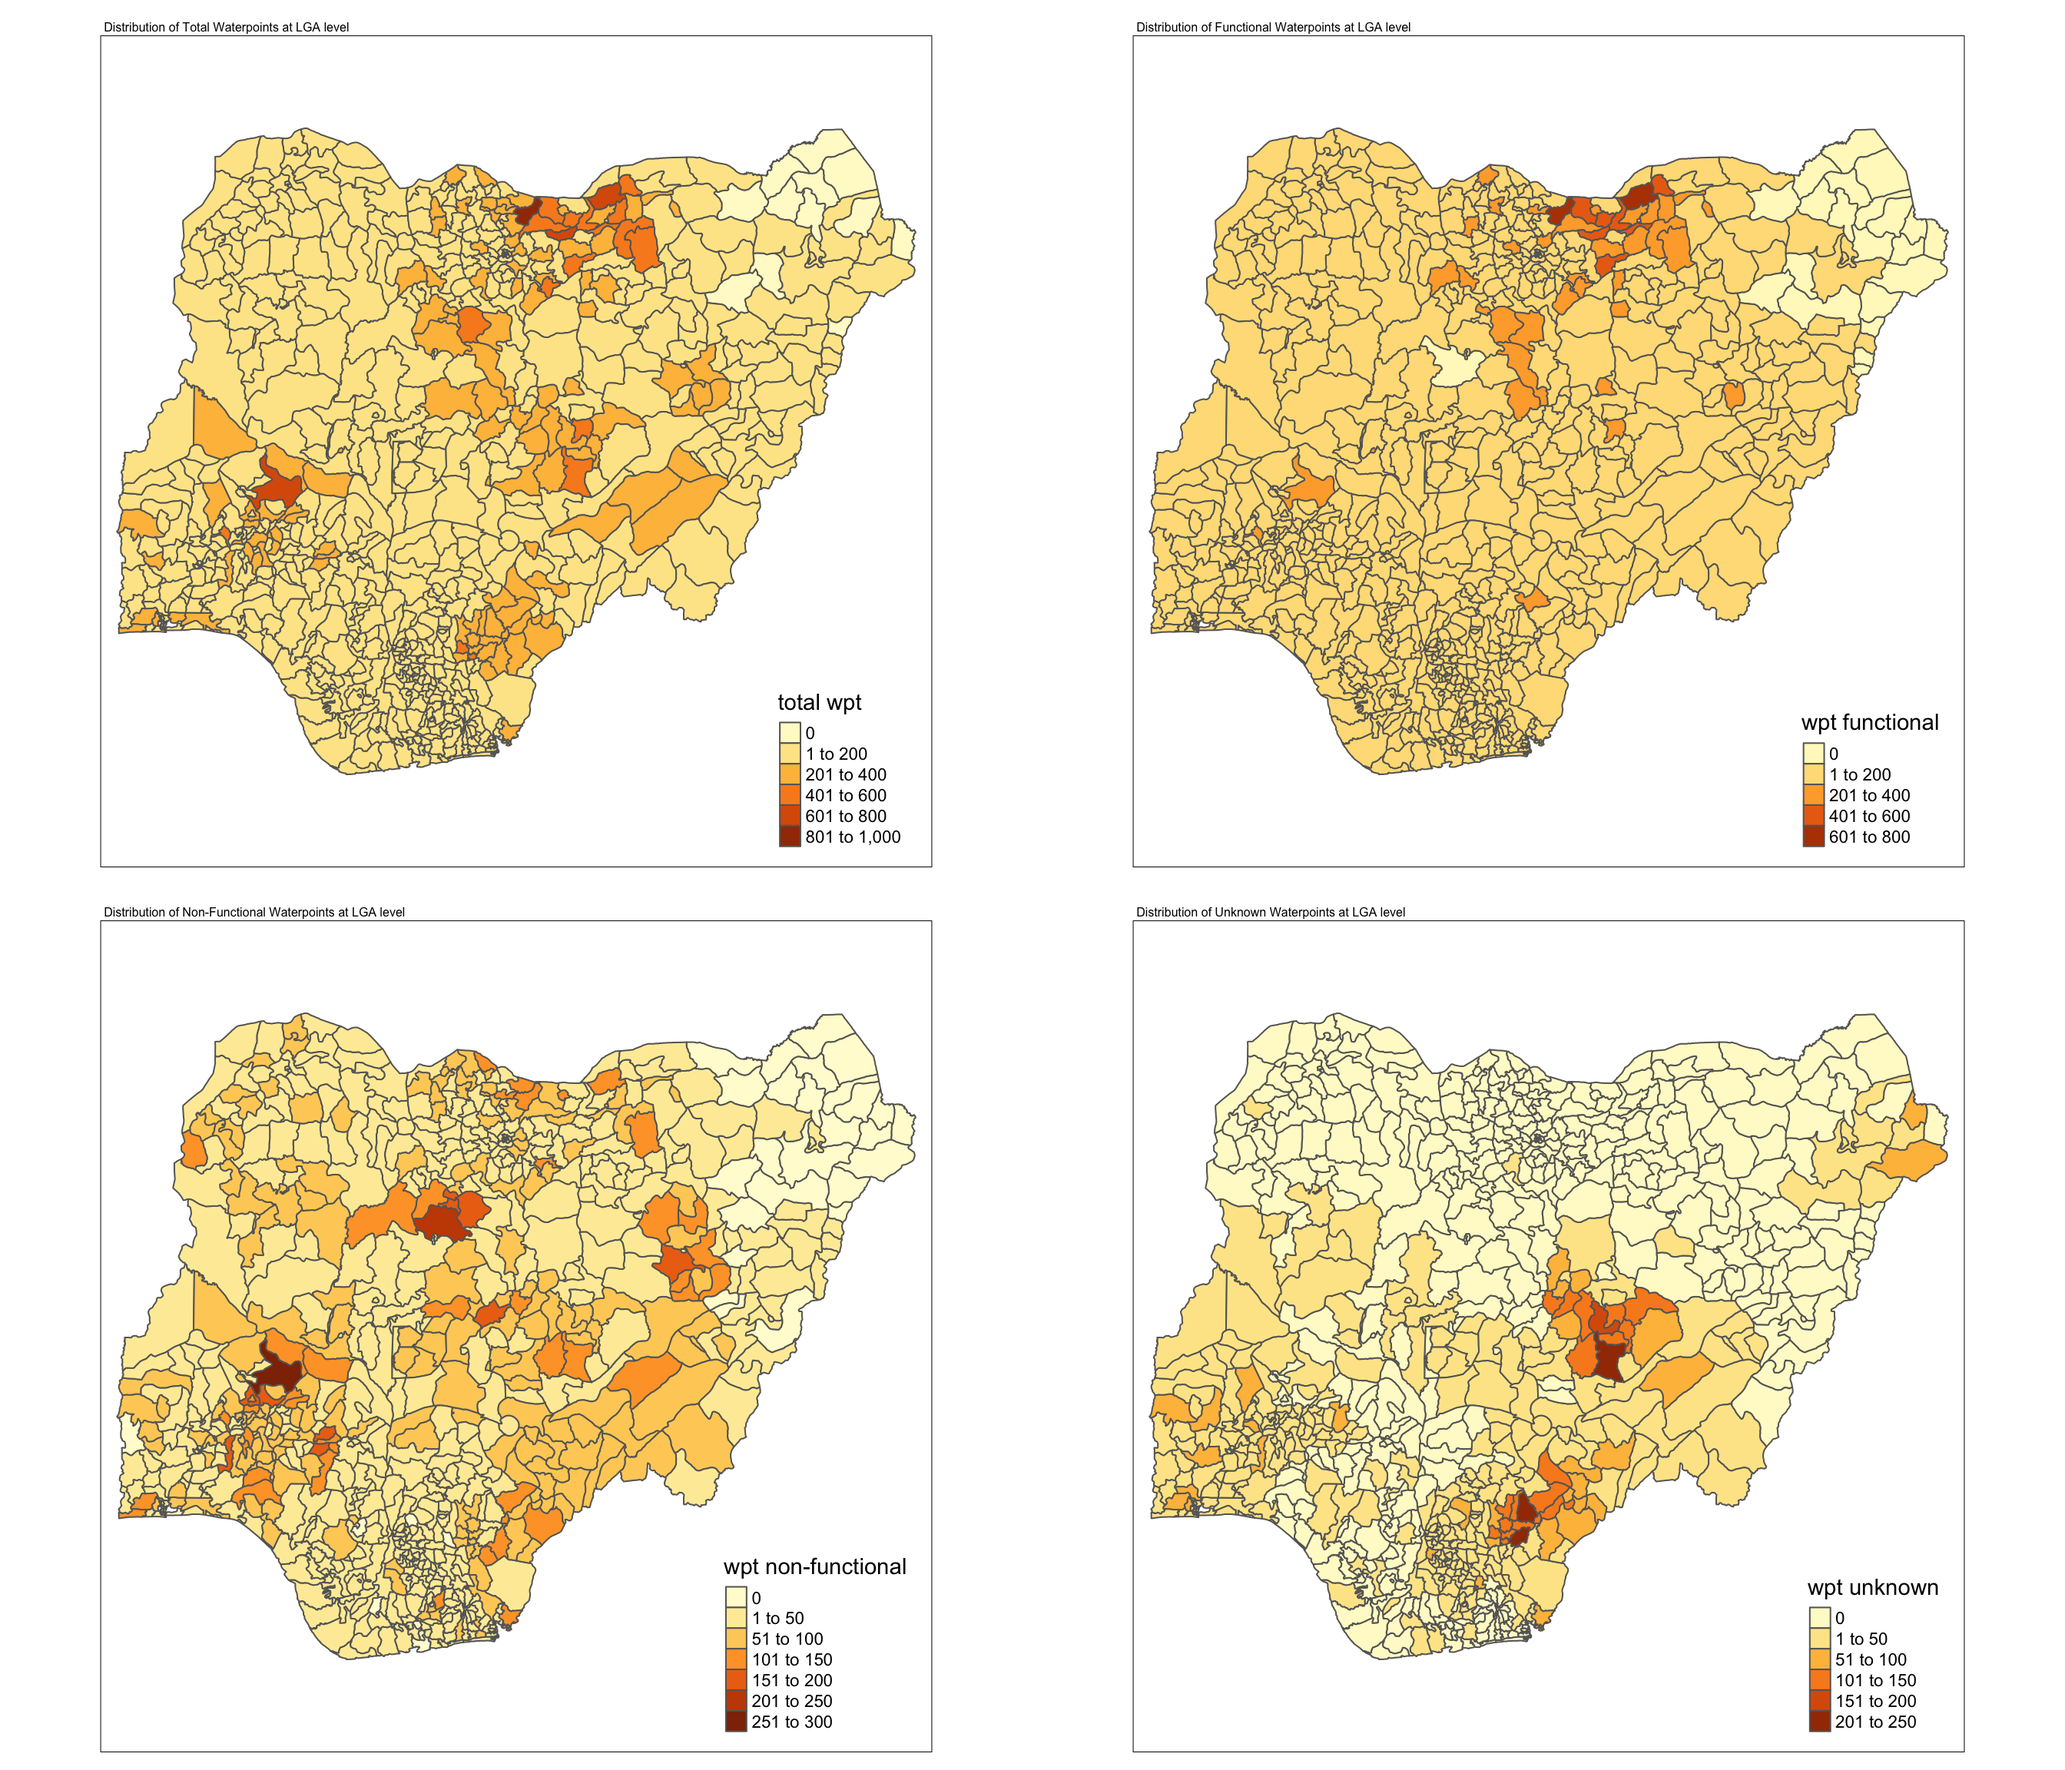
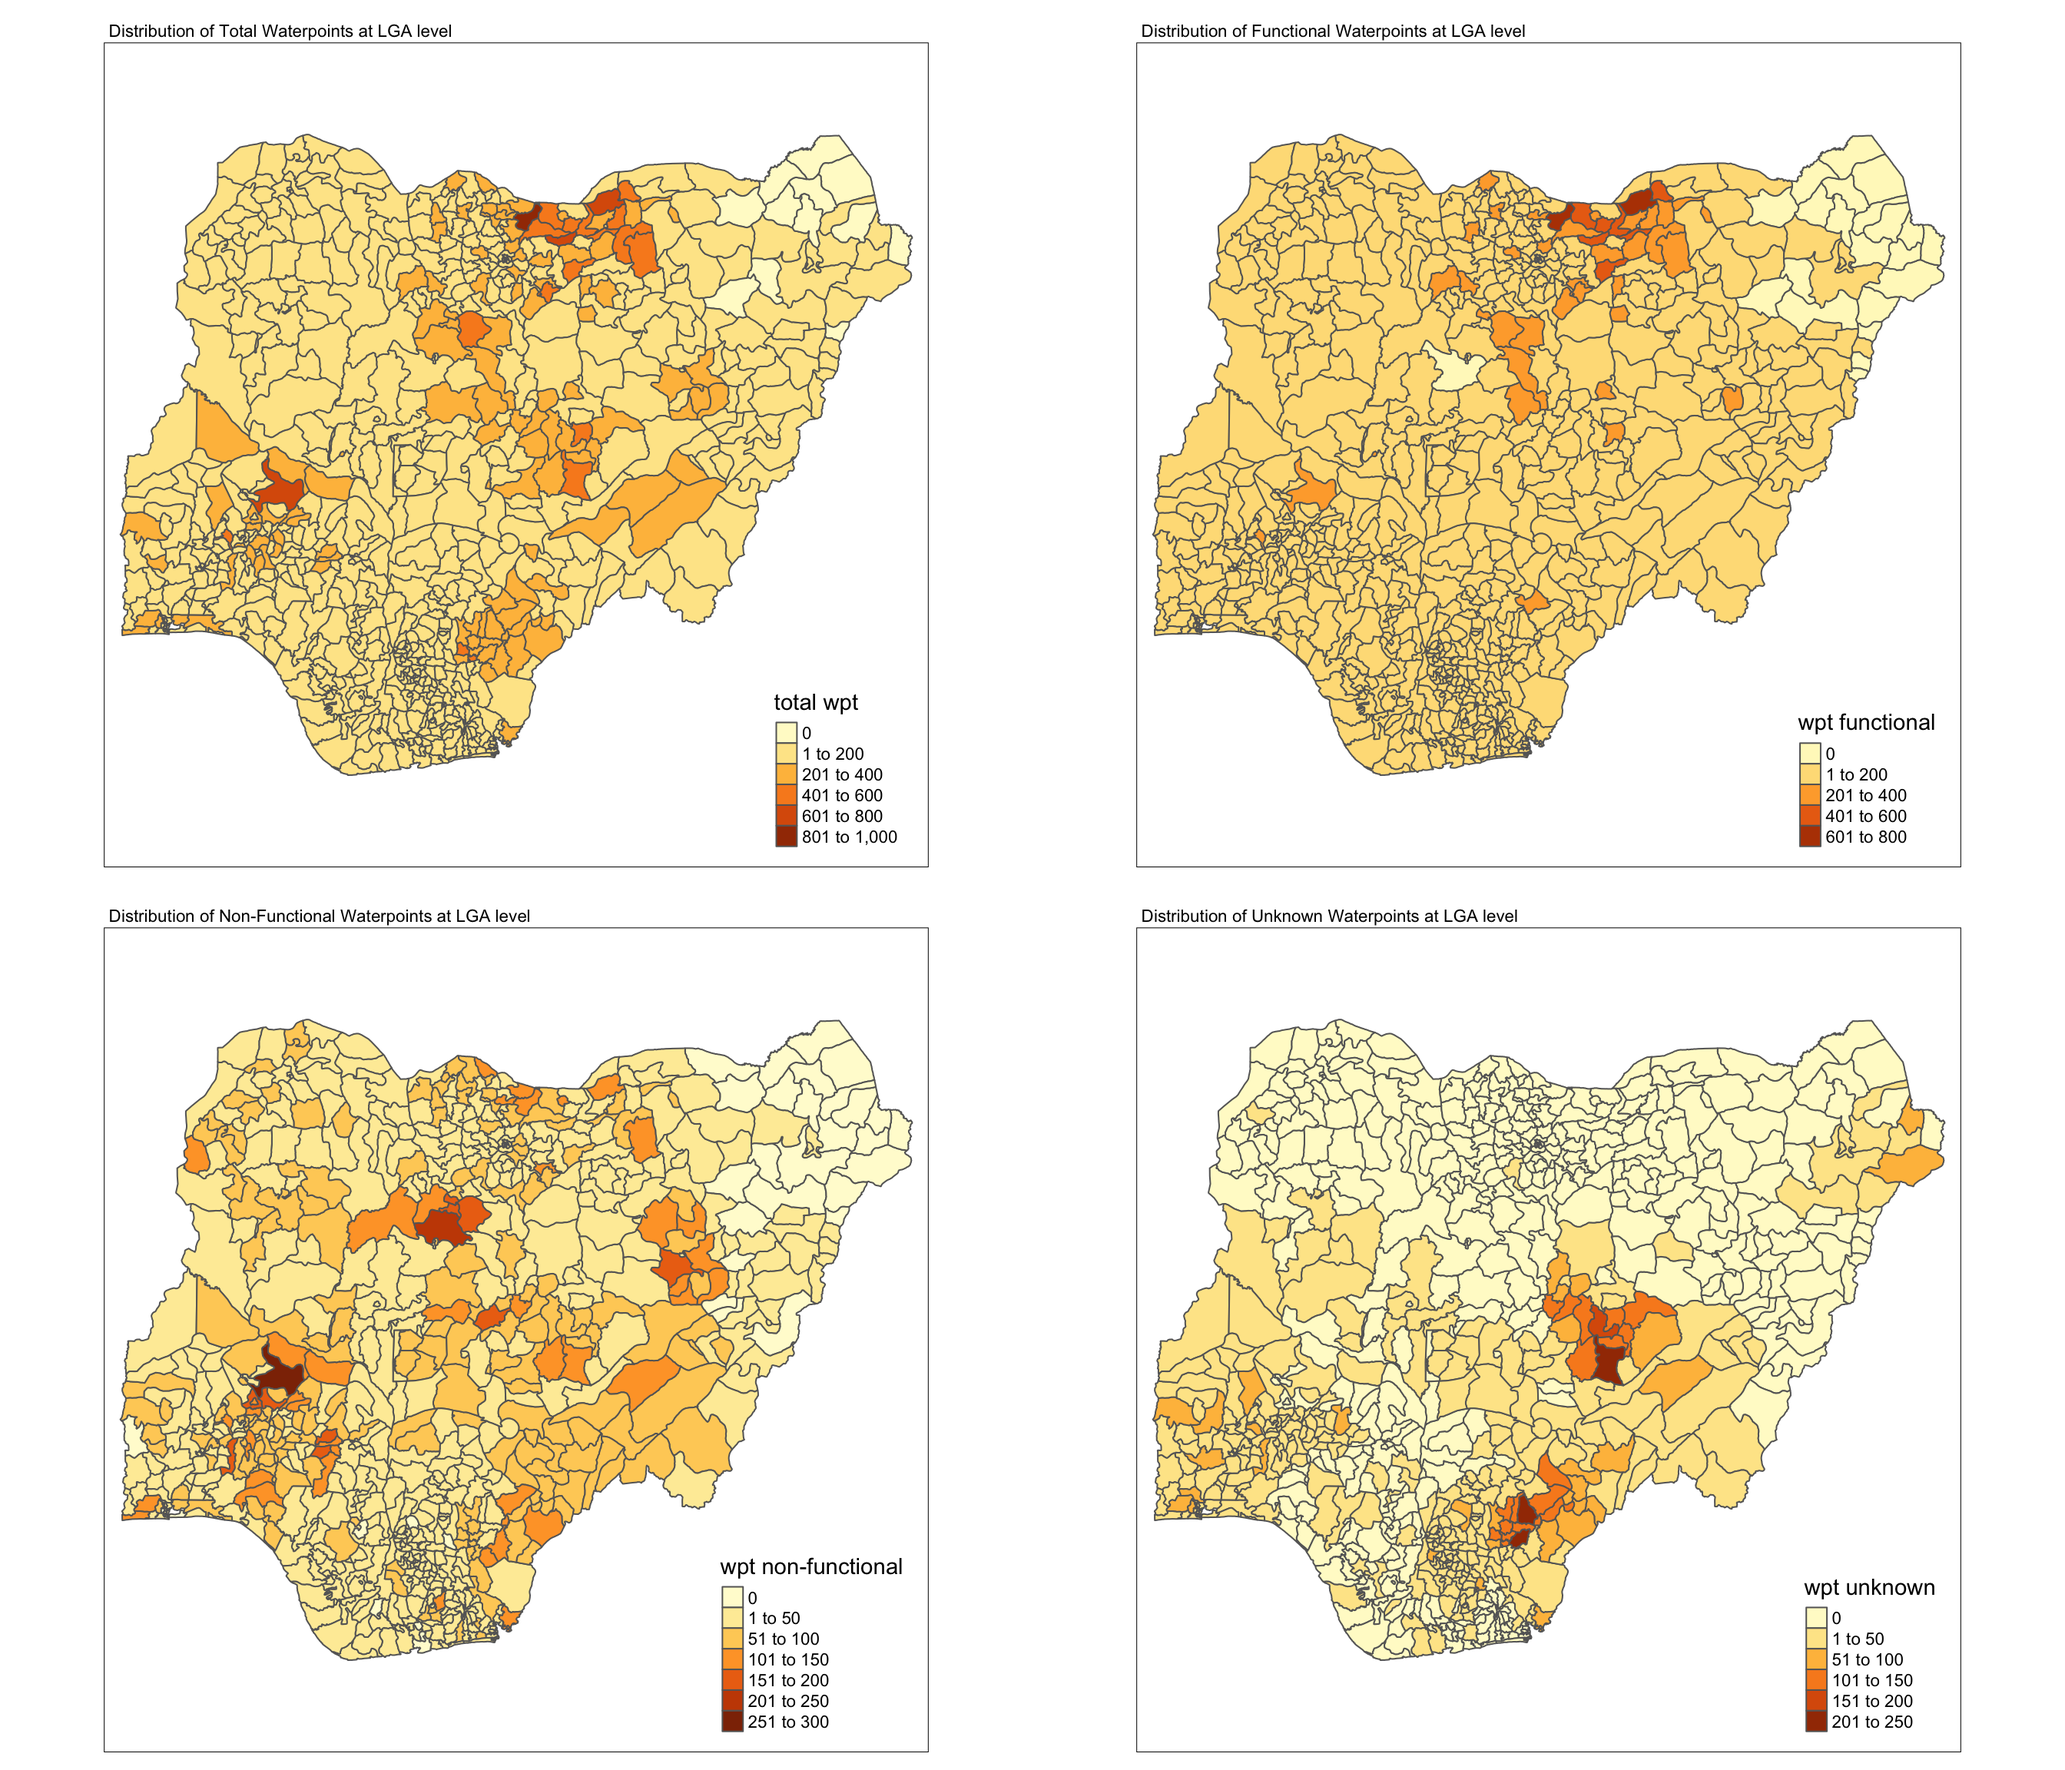
take_home_9th

diff --git a/_site/Take_home_Ex1/Take_home_Ex1.html b/_site/Take_home_Ex1/Take_home_Ex1.html
@@ -284,7 +284,6 @@ code span.wa { color: #60a0b0; font-weight: bold; font-style: italic; } /* Warni
   <li><a href="#computing-gi-statistics-using-fixed-distance" id="toc-computing-gi-statistics-using-fixed-distance" class="nav-link" data-scroll-target="#computing-gi-statistics-using-fixed-distance">Computing Gi statistics using fixed distance</a></li>
   <li><a href="#mapping-gi-values-with-fixed-distance-weights" id="toc-mapping-gi-values-with-fixed-distance-weights" class="nav-link" data-scroll-target="#mapping-gi-values-with-fixed-distance-weights">Mapping Gi values with fixed distance weights</a></li>
   </ul></li>
-  <li><a href="#section" id="toc-section" class="nav-link" data-scroll-target="#section"></a></li>
   </ul>
 </nav>
     </div>
@@ -552,22 +551,22 @@ PROJCRS["Minna / Nigeria West Belt",
 <span id="cb19-2"><a href="#cb19-2" aria-hidden="true" tabindex="-1"></a>  <span class="fu">tm_layout</span>(<span class="at">legend.height =</span> <span class="fl">0.25</span>, </span>
 <span id="cb19-3"><a href="#cb19-3" aria-hidden="true" tabindex="-1"></a>            <span class="at">legend.width =</span> <span class="fl">0.35</span>,</span>
 <span id="cb19-4"><a href="#cb19-4" aria-hidden="true" tabindex="-1"></a>            <span class="at">main.title =</span> <span class="st">"Distribution of Total Waterpoints at LGA level"</span>,</span>
-<span id="cb19-5"><a href="#cb19-5" aria-hidden="true" tabindex="-1"></a>            <span class="at">main.title.size =</span> <span class="fl">0.5</span>)</span>
+<span id="cb19-5"><a href="#cb19-5" aria-hidden="true" tabindex="-1"></a>            <span class="at">main.title.size =</span> <span class="fl">0.7</span>)</span>
 <span id="cb19-6"><a href="#cb19-6" aria-hidden="true" tabindex="-1"></a>wp_functional <span class="ot">&lt;-</span> <span class="fu">qtm</span>(nga_wp_1, <span class="st">"wpt functional"</span>) <span class="sc">+</span> </span>
 <span id="cb19-7"><a href="#cb19-7" aria-hidden="true" tabindex="-1"></a>  <span class="fu">tm_layout</span>(<span class="at">legend.height =</span> <span class="fl">0.25</span>, </span>
 <span id="cb19-8"><a href="#cb19-8" aria-hidden="true" tabindex="-1"></a>            <span class="at">legend.width =</span> <span class="fl">0.35</span>,</span>
 <span id="cb19-9"><a href="#cb19-9" aria-hidden="true" tabindex="-1"></a>            <span class="at">main.title =</span> <span class="st">"Distribution of Functional Waterpoints at LGA level"</span>,</span>
-<span id="cb19-10"><a href="#cb19-10" aria-hidden="true" tabindex="-1"></a>            <span class="at">main.title.size =</span> <span class="fl">0.5</span>)</span>
+<span id="cb19-10"><a href="#cb19-10" aria-hidden="true" tabindex="-1"></a>            <span class="at">main.title.size =</span> <span class="fl">0.7</span>)</span>
 <span id="cb19-11"><a href="#cb19-11" aria-hidden="true" tabindex="-1"></a>wp_nonfunctional <span class="ot">&lt;-</span> <span class="fu">qtm</span>(nga_wp_1, <span class="st">"wpt non-functional"</span>) <span class="sc">+</span> </span>
 <span id="cb19-12"><a href="#cb19-12" aria-hidden="true" tabindex="-1"></a>  <span class="fu">tm_layout</span>(<span class="at">legend.height =</span> <span class="fl">0.25</span>, </span>
 <span id="cb19-13"><a href="#cb19-13" aria-hidden="true" tabindex="-1"></a>            <span class="at">legend.width =</span> <span class="fl">0.35</span>,</span>
 <span id="cb19-14"><a href="#cb19-14" aria-hidden="true" tabindex="-1"></a>            <span class="at">main.title =</span> <span class="st">"Distribution of Non-Functional Waterpoints at LGA level"</span>,</span>
-<span id="cb19-15"><a href="#cb19-15" aria-hidden="true" tabindex="-1"></a>            <span class="at">main.title.size =</span> <span class="fl">0.5</span>)</span>
+<span id="cb19-15"><a href="#cb19-15" aria-hidden="true" tabindex="-1"></a>            <span class="at">main.title.size =</span> <span class="fl">0.7</span>)</span>
 <span id="cb19-16"><a href="#cb19-16" aria-hidden="true" tabindex="-1"></a>unknown <span class="ot">&lt;-</span> <span class="fu">qtm</span>(nga_wp_1, <span class="st">"wpt unknown"</span>) <span class="sc">+</span> </span>
 <span id="cb19-17"><a href="#cb19-17" aria-hidden="true" tabindex="-1"></a>  <span class="fu">tm_layout</span>(<span class="at">legend.height =</span> <span class="fl">0.25</span>, </span>
 <span id="cb19-18"><a href="#cb19-18" aria-hidden="true" tabindex="-1"></a>            <span class="at">legend.width =</span> <span class="fl">0.35</span>,</span>
 <span id="cb19-19"><a href="#cb19-19" aria-hidden="true" tabindex="-1"></a>            <span class="at">main.title =</span> <span class="st">"Distribution of Unknown Waterpoints at LGA level"</span>,</span>
-<span id="cb19-20"><a href="#cb19-20" aria-hidden="true" tabindex="-1"></a>            <span class="at">main.title.size =</span> <span class="fl">0.5</span>)</span>
+<span id="cb19-20"><a href="#cb19-20" aria-hidden="true" tabindex="-1"></a>            <span class="at">main.title.size =</span> <span class="fl">0.7</span>)</span>
 <span id="cb19-21"><a href="#cb19-21" aria-hidden="true" tabindex="-1"></a><span class="fu">tmap_arrange</span>(total, wp_functional, wp_nonfunctional, unknown, <span class="at">asp=</span><span class="dv">1</span>, <span class="at">ncol=</span><span class="dv">2</span>) </span></code><button title="Copy to Clipboard" class="code-copy-button"><i class="bi"></i></button></pre></div>
 <div class="cell-output-display">
 <p><img src="Take_home_Ex1_files/figure-html/unnamed-chunk-17-1.png" class="img-fluid" width="1344"></p>
@@ -976,12 +975,9 @@ alternative hypothesis: greater</code></pre>
 </div>
 <p><strong>Observation:</strong> From the plot, it could be seen that the southern and northeastern regions tend to be cold spots (location associated with relatively low values in surrounding locations). This indicate that these regions generally have low number of non-functional waterpoints and relatively easy access to water.</p>
 <p>On the other hand, part of the southwestern region tend to be hot spots (location associated with relatively high values in surrounding locations). Counties at this region have poor access to water as both themselves and neighbors generally have high number of non-functional waterpoints. This is in alignment with the observation obtained from the LISA map and reinforces the point that the southwestern region would require more attention to look into the matter of poor water access.</p>
-</section>
-</section>
-<section id="section" class="level2">
-<h2 class="anchored" data-anchor-id="section"></h2>
 
 
+</section>
 </section>
 
 </main> <!-- /main -->
